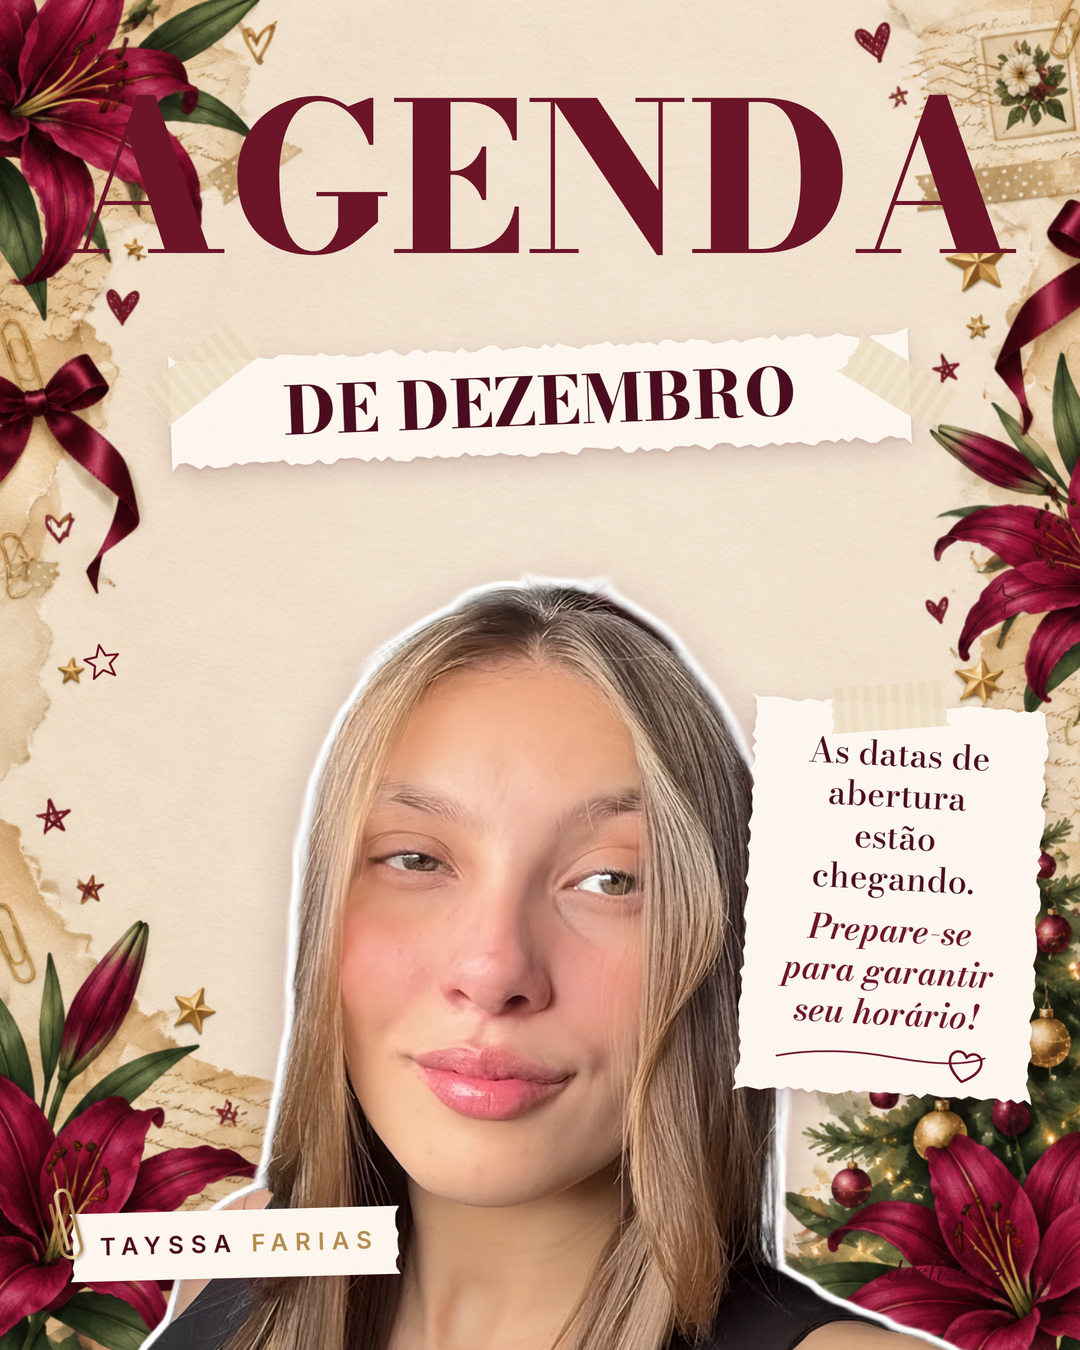
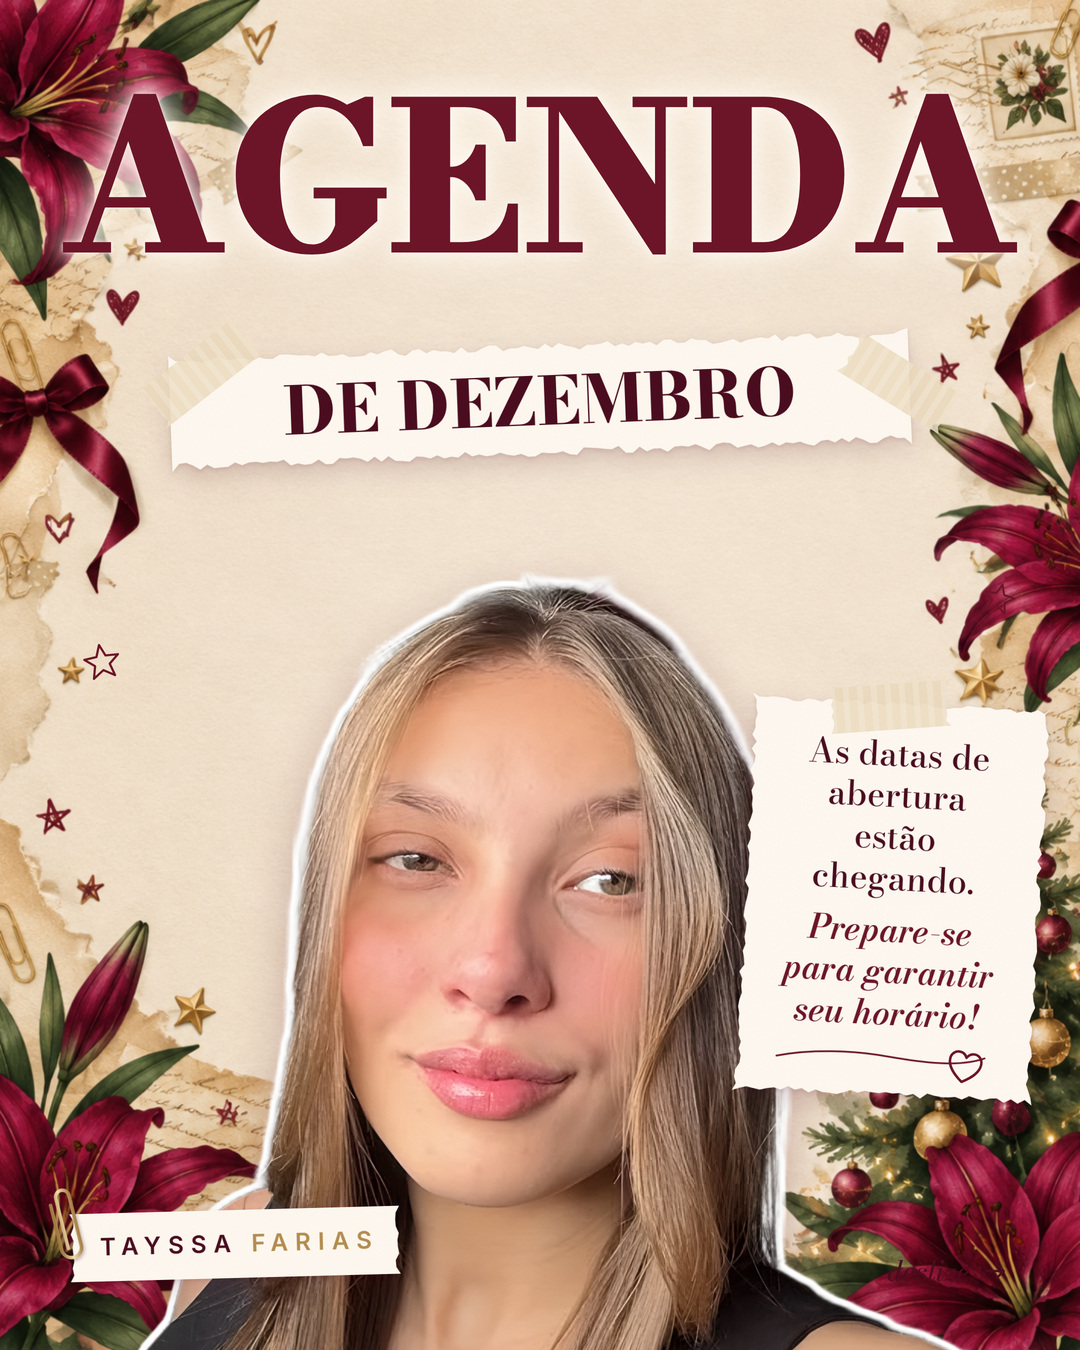
Tayssa: AGENDA da capa de dezembro com traço firme
Bodoni no ajuste óptico mais grosso, contorno da mesma cor e halo claro
para o A não sumir sobre o lírio.

Claude-Session: https://claude.ai/code/session_01C7Fqj9QNbeqjAG4x5LcgP7

Changed region(s): [[0.0306, 0.0311, 0.55, 0.2178], [0.55, 0.0622, 0.7944, 0.1867], [0.7944, 0.0622, 0.9472, 0.2178]]

diff --git a/docs/tayssa/carrossel-dezembro/gerador/style.css b/docs/tayssa/carrossel-dezembro/gerador/style.css
@@ -130,3 +130,7 @@ body { font-family: var(--sans); color: var(--tinta); -webkit-font-smoothing: an
 .grande { letter-spacing: 0; }
 
 .marca { white-space: nowrap; }
+/* AGENDA da capa: traço firme e separado das flores */
+.grande { font-variation-settings: 'opsz' 6 !important; font-weight: 900; }
+.grande--cheio { -webkit-text-stroke: 3px var(--bordo); paint-order: stroke fill;
+  filter: drop-shadow(0 0 2px rgba(255,250,242,.95)) drop-shadow(0 0 10px rgba(255,250,242,.9)) drop-shadow(0 0 22px rgba(255,250,242,.75)); }
